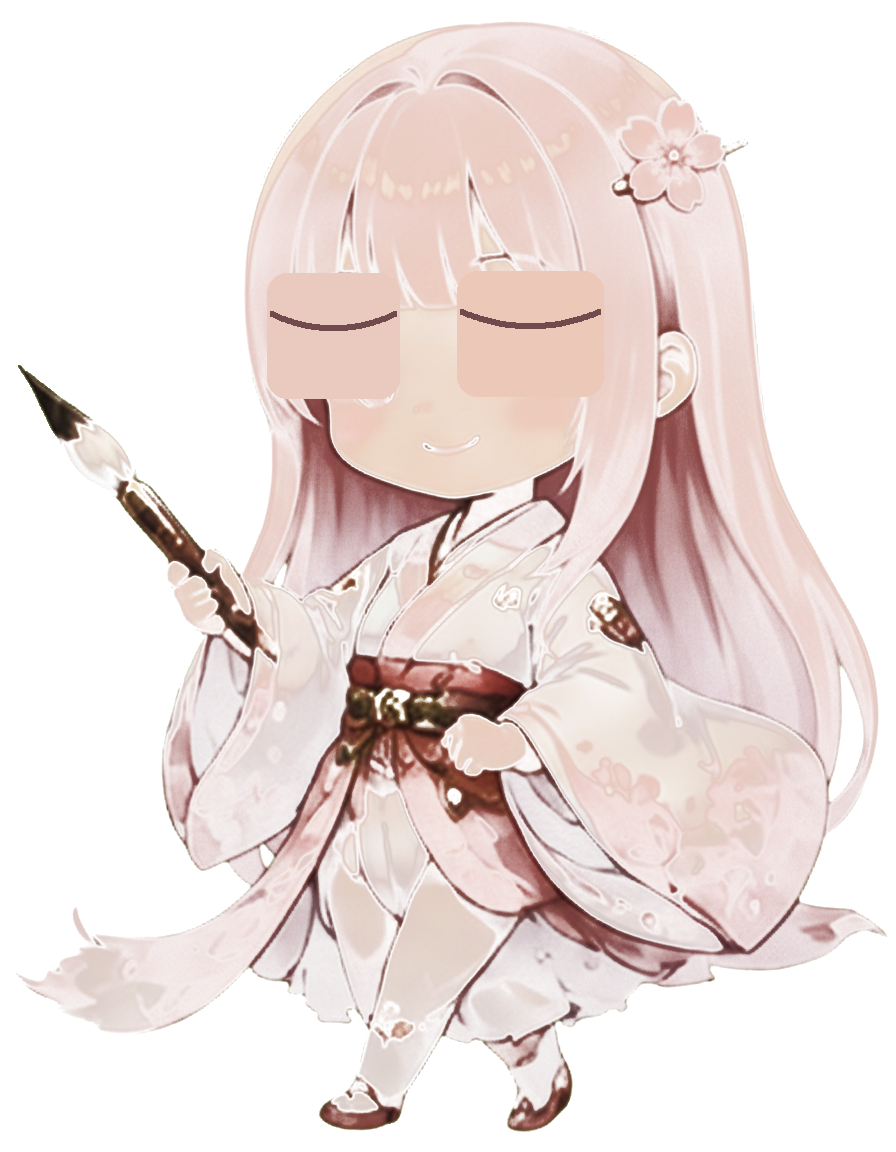
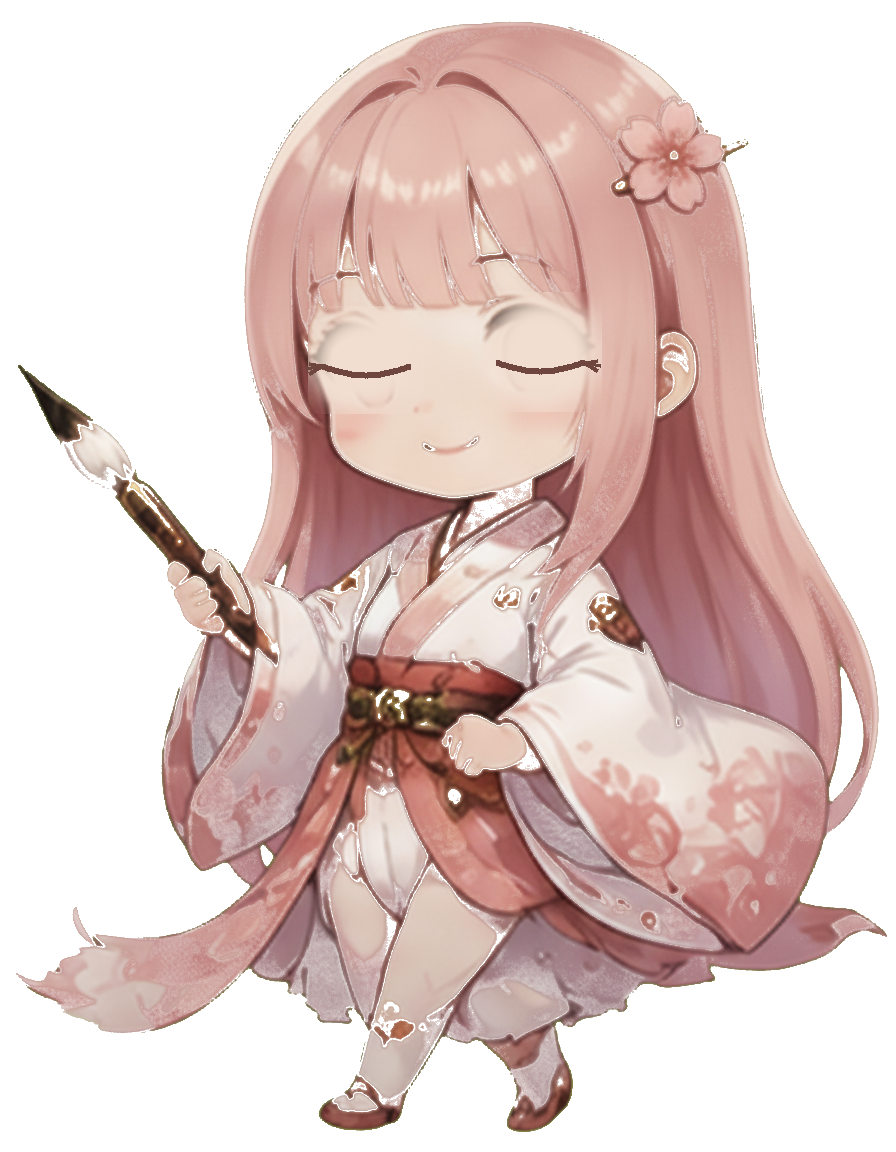
fix(ui): 桜デフォルトを長髪版の不透明化ペアに差し替え(透け・巨大化・瞬き不一致を解消)
- guide_open/blink を git 1a37d327 の長髪hair_longペア(絵に合う手描きblink)へ
- 素材が約46%半透明で「透けて見える」不具合→アルファを不透明化(中心semi 46%→9%)
- ホーム桜の枠を控えめ(0.40×1.12/contain)に戻し巨大化を解消

diff --git a/src/home/HomeCoach.tsx b/src/home/HomeCoach.tsx
@@ -76,9 +76,10 @@ export default function HomeCoach({ status, learned }: { status: HomeStatus; lea
     return () => { loop.stop(); sway.stop(); hop.stop(); bAlive = false; bt.forEach(clearTimeout); };
   }, [bob, dogSway, dogHop]);
 
-  // 民族衣装/背負い筆の全身絵は縦長(≒864x1184)なので少し大きめ＋縦横比を変える。既定の案内キャラ(桜=hair_long)も縦長896x1152。
-  const charW = Math.round(width * (charImg ? 0.60 : 0.46));
-  const charH = Math.round(charW * (charImg ? 1.370 : 1.286)); // 既定=1152/896
+  // 民族衣装/背負い筆の全身絵は縦長(≒864x1184)なので少し大きめ＋縦横比を変える。
+  // 既定の案内キャラ(桜=長髪hair_long・896x1152)は縦長だが、巨大化を避けるため控えめな枠(0.40幅×1.12)にcontainで収める。
+  const charW = Math.round(width * (charImg ? 0.60 : 0.40));
+  const charH = Math.round(charW * (charImg ? 1.370 : 1.12));
   const bobY = bob.interpolate({ inputRange: [0, 1], outputRange: [0, -9] });
   const dogSwayDeg = dogSway.interpolate({ inputRange: [0, 1], outputRange: ['-3deg', '3deg'] });
   const dogHopY = dogHop.interpolate({ inputRange: [0, 1], outputRange: [0, -14] });

diff --git a/memory/session-summary-LATEST.md b/memory/session-summary-LATEST.md
@@ -1,15 +1,19 @@
 # 前セッション圧縮情報
 
 ## 何をしたか
-- ツール呼び出し 3 回・8 ターン
-- 往復 931 回
+- ツール呼び出し 25 回・64 ターン
+- 往復 1005 回
 
 ## 何が変わったか
 - memory/handoff.md
-- src/data/afterStudyArt.ts
+- src/home/HomeCoach.tsx
+- assets/mywords/guide_blink.png
+- assets/mywords/guide_open.png
 - memory/session-summary-LATEST.md
-- 画像/アプリ画像/学習後/summer_fireworks.png
-- assets/afterstudy/summer_fireworks.png
+
+## ⚠ 注意
+- - ⚠ 連続 64ターン（文脈 39万）— ループが長い
+- - ツール呼び出しループが長い（指示1件に対し 64ターン・ツール25回）— まとめ方を変える
 
 ## 次の一手
 - **🎯 面別マスタリー統合復習＝P1-P6完了・ビルド2654 both dispatch=run`30700408364`（監視しない・2026-08-01）**: 苦手度を単語×面(read/write/mean/listen/grammar)に一本化し忘却曲線で「今日のおすすめ(=試験問題の復習)」を出す統合復習。設計=`docs/superpowers/specs/2026-08-01-unified-facet-review-design.md`／実装プラン=`docs/superpowers/plans/2026-08-01-unified-facet-review.md`／詳細inflight=`memory/facet-review-inflight.md`。**入口=ホーム(AIコーチのアドバイス末尾CTA)＋書斎タブ(桜tap/トップカード)。試験・辞書には出さない(ユーザー方針)。試験タブの全部混ぜは撤去**。用法→語のmean/文法系→文法pointのgrammarへ統合(設計§3.1)。生データ(items/テレメトリ)は不変=面は要約層(additive)。予想得点は面参照。新規テスト52件・全372緑・tsc0。コミット=P1`18bce99`/P2`ea015d4`/P3`14f2093`/P4`6fa3976`/P5`c09dee5`/P5.5`c988b30`/P6`03a274a8`＋ラベル変更(「今日のおすすめ」)。**✅P7書き取り2ターン化=実装済(学習5字[なぞり/見て書くスイッチ]→見ずにテスト5字・合格でwrite面へ)**。**残=P8実機検証**。**✅ビルド2662 both dispatch=run`30701715650`（監視しない・2026-08-01）に今セッション全変更を反映**(統合復習P1-P7・試験タブのミックス撤去・新ラベル「今日のオススメ問題に挑戦する」・書き取り2ターン化・類義語是正・貝二重加算修正等)。build.ps1 -NoCommit -NoWatchで投入(番号=2000+662commit)。**別件確認済**=予想得点の大問重みは既に本番出題数重み(均等割りでない)＝是正不要。**✅build.ps1修正済**(コミット済・push済)=`$APP`をリポジトリルート(tools/の親)へ・前提チェックはapp.json存在・`-NoWatch`追加(dispatch後監視しない運用に合わせた口)。`-DryRun`で34緑/tsc0確認。以後は`tools\build.ps1 -Message "..." -NoWatch`でビルド可(番号=2000+commit)。**⚠ラベル変更(「今日のおすすめ」)はビルド2654に未反映=次ビルドで入る**。

diff --git a/memory/handoff.md b/memory/handoff.md
@@ -34,6 +34,10 @@
 
 <!-- AUTO:BEGIN -->
 
+## ⚠ 会話が重くなっている（自動）
+- ⚠ 連続 64ターン（文脈 39万）— ループが長い
+- ツール呼び出しループが長い（指示1件に対し 64ターン・ツール25回）— まとめ方を変える
+
 ## 走行中の run（自動・完了通知が来ていないもの）
 - a24a55339e7688334 general-purpose
 - a299080a95b15e8d3 general-purpose
@@ -42,14 +46,14 @@
 - a83565e1b69fe6554 general-purpose
 
 ## 直近24時間の変更ファイル（自動）
-- src/data/afterStudyArt.ts
+- src/home/HomeCoach.tsx
+- assets/mywords/guide_blink.png
+- assets/mywords/guide_open.png
 - memory/session-summary-LATEST.md
 - memory/handoff.md
-- 画像/アプリ画像/学習後/summer_fireworks.png
-- assets/afterstudy/summer_fireworks.png
-- 画像/アプリ画像/学習後/summer_street.png
-- assets/afterstudy/summer_street.png
-- 画像/アプリ画像/学習後/summer_boats.png
+- content/_manifest.json
+- src/data/content/bundled.generated.ts
+- src/data/afterStudyArt.ts
 
-_自動更新: 2026-08-01 23:53_
+_自動更新: 2026-08-02 00:48_
 <!-- AUTO:END -->
